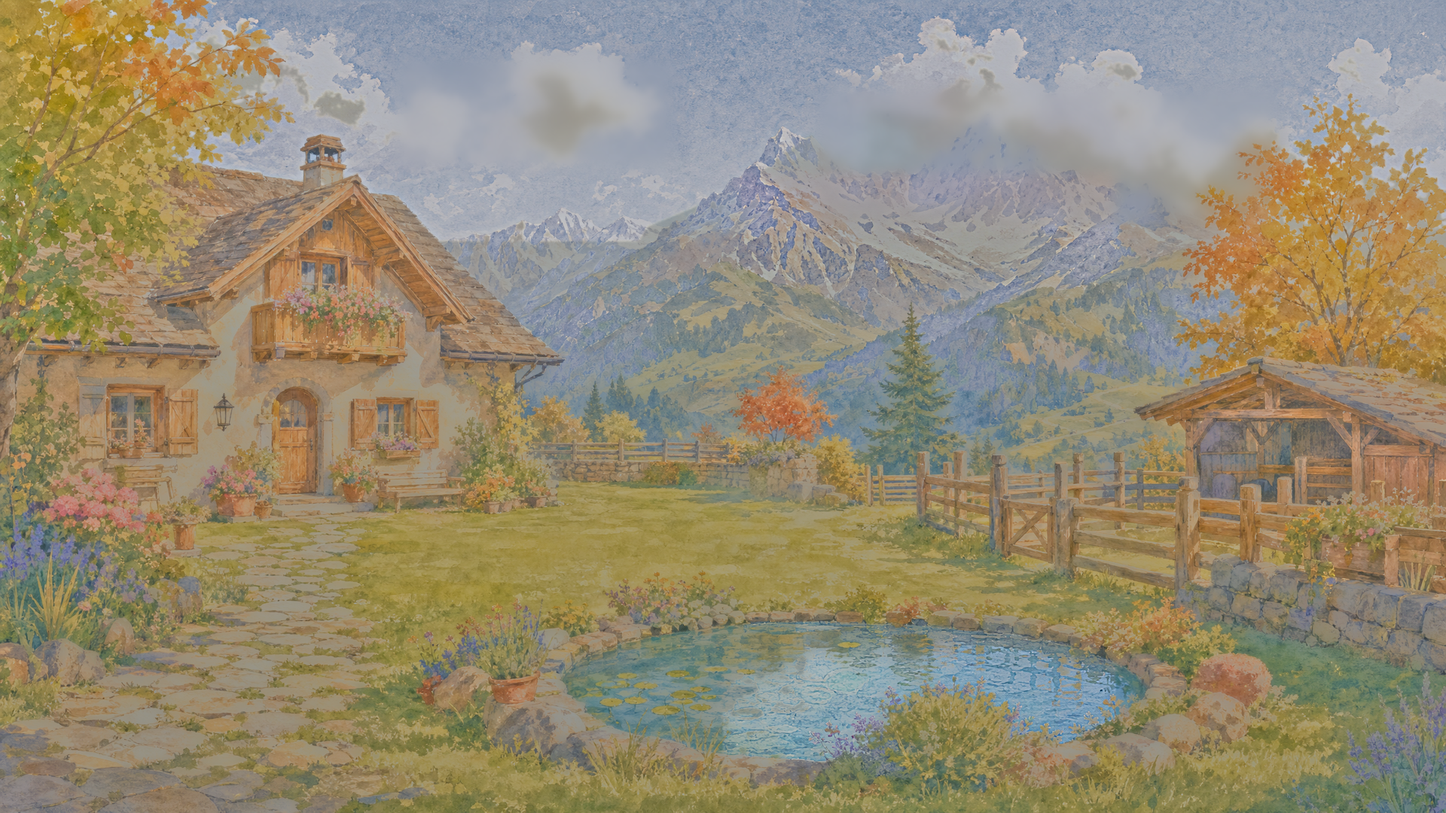
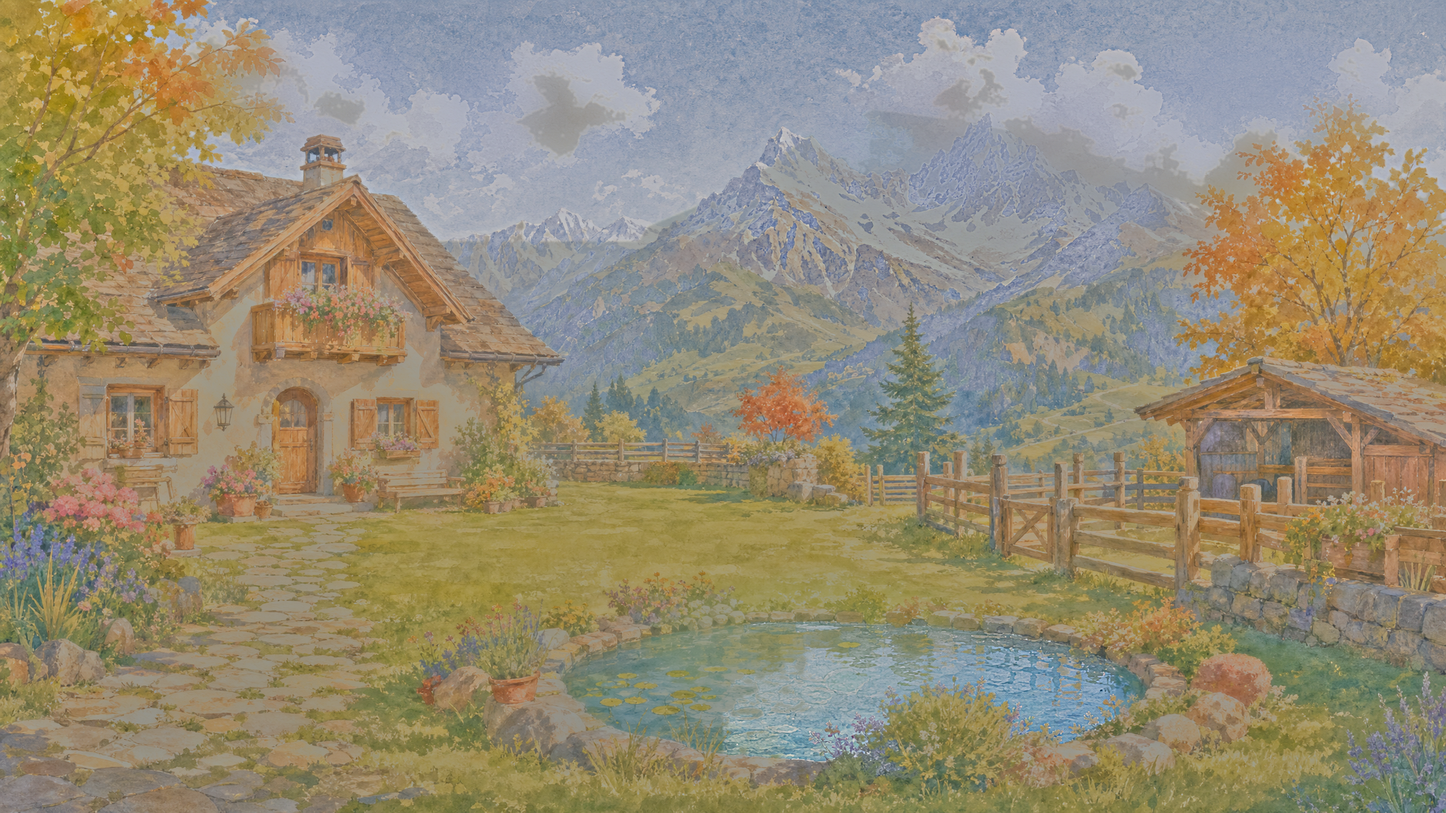
art(ART-OVERCAST): 替换返修候选，仍待复审
688cdf74 不再作为复审对象。仍只改云团、雪坡、地表受光和池心，几何锁在 PR #202 基线上。不覆盖旧阴天图，不改运行时。

diff --git a/art/concepts/yard_overcast_aligned_v2/README.md b/art/concepts/yard_overcast_aligned_v2/README.md
@@ -4,9 +4,10 @@
 - 作者：GROK-BUILD
 - 基线：PR #202 提交 `a347079320a504c59ac6308575184ccae473204a`
[2 lines of base64/hex data omitted]
-- 审画：ART-DIRECTOR 评论 5979307760，需修改，不可接入。本目录是修订候选，仍待 ART-DIRECTOR 复审。
[2 lines of base64/hex data omitted]
+- 审画：ART-DIRECTOR 评论 5979307760，需修改，不可接入。本目录仍是修订候选，仍待 ART-DIRECTOR 复审。
 
-只改了天空云团灰块/亮边、雪坡层次、地表直射光和池心反射。屋、池岸、围栏、路的像素位置没有平移或重画。没有覆盖 `assets/holiday/environment/yard_overcast.png`，没有改运行时，没有做天气过渡。
+只改了天空云团灰块/亮边、雪坡层次、地表直射光和池心反射。蒙版是羽化椭圆，不是硬边矩形。屋、池岸、围栏、路的像素位置没有平移或重画。没有覆盖 `assets/holiday/environment/yard_overcast.png`，没有改运行时，没有做天气过渡。
 
 静态预览在 `docs/playtests/2026-10-04-ART-OVERCAST-REVISION/`。不是游戏截图，也不是 Web 连续切换。这里不算美术通过。

diff --git a/docs/playtests/2026-10-04-ART-OVERCAST-REVISION/README.md b/docs/playtests/2026-10-04-ART-OVERCAST-REVISION/README.md
@@ -1,6 +1,10 @@
 # 阴天返修静态预览
 
-- 左/上为 PR #202 基线，右为本次修订候选的并排缩小图。
-- overlay50 是基线与修订各 50% 的静态叠图，用来看轮廓有没有双影。
-- yard-1280 是修订候选缩到 1280×720，不是运行时截图。
-- 仍待 ART-DIRECTOR 复审。不可接入。
+对照 PR #202 基线 `a347079320a504c59ac6308575184ccae473204a`。
+本目录 PNG 哈希见 `art/concepts/yard_overcast_aligned_v2/measures.json`。
+
+- side-by-side.jpg：左晴天母版，右本候选，各缩到 960×540。
+- overlay50.jpg：晴天与本候选 50% 叠合后缩到 1280×720。
+- yard-1280.jpg：本候选缩到 1280×720。
+
+不是运行时截图，不是天气过渡，不是美术通过。仍待 ART-DIRECTOR 复审。
